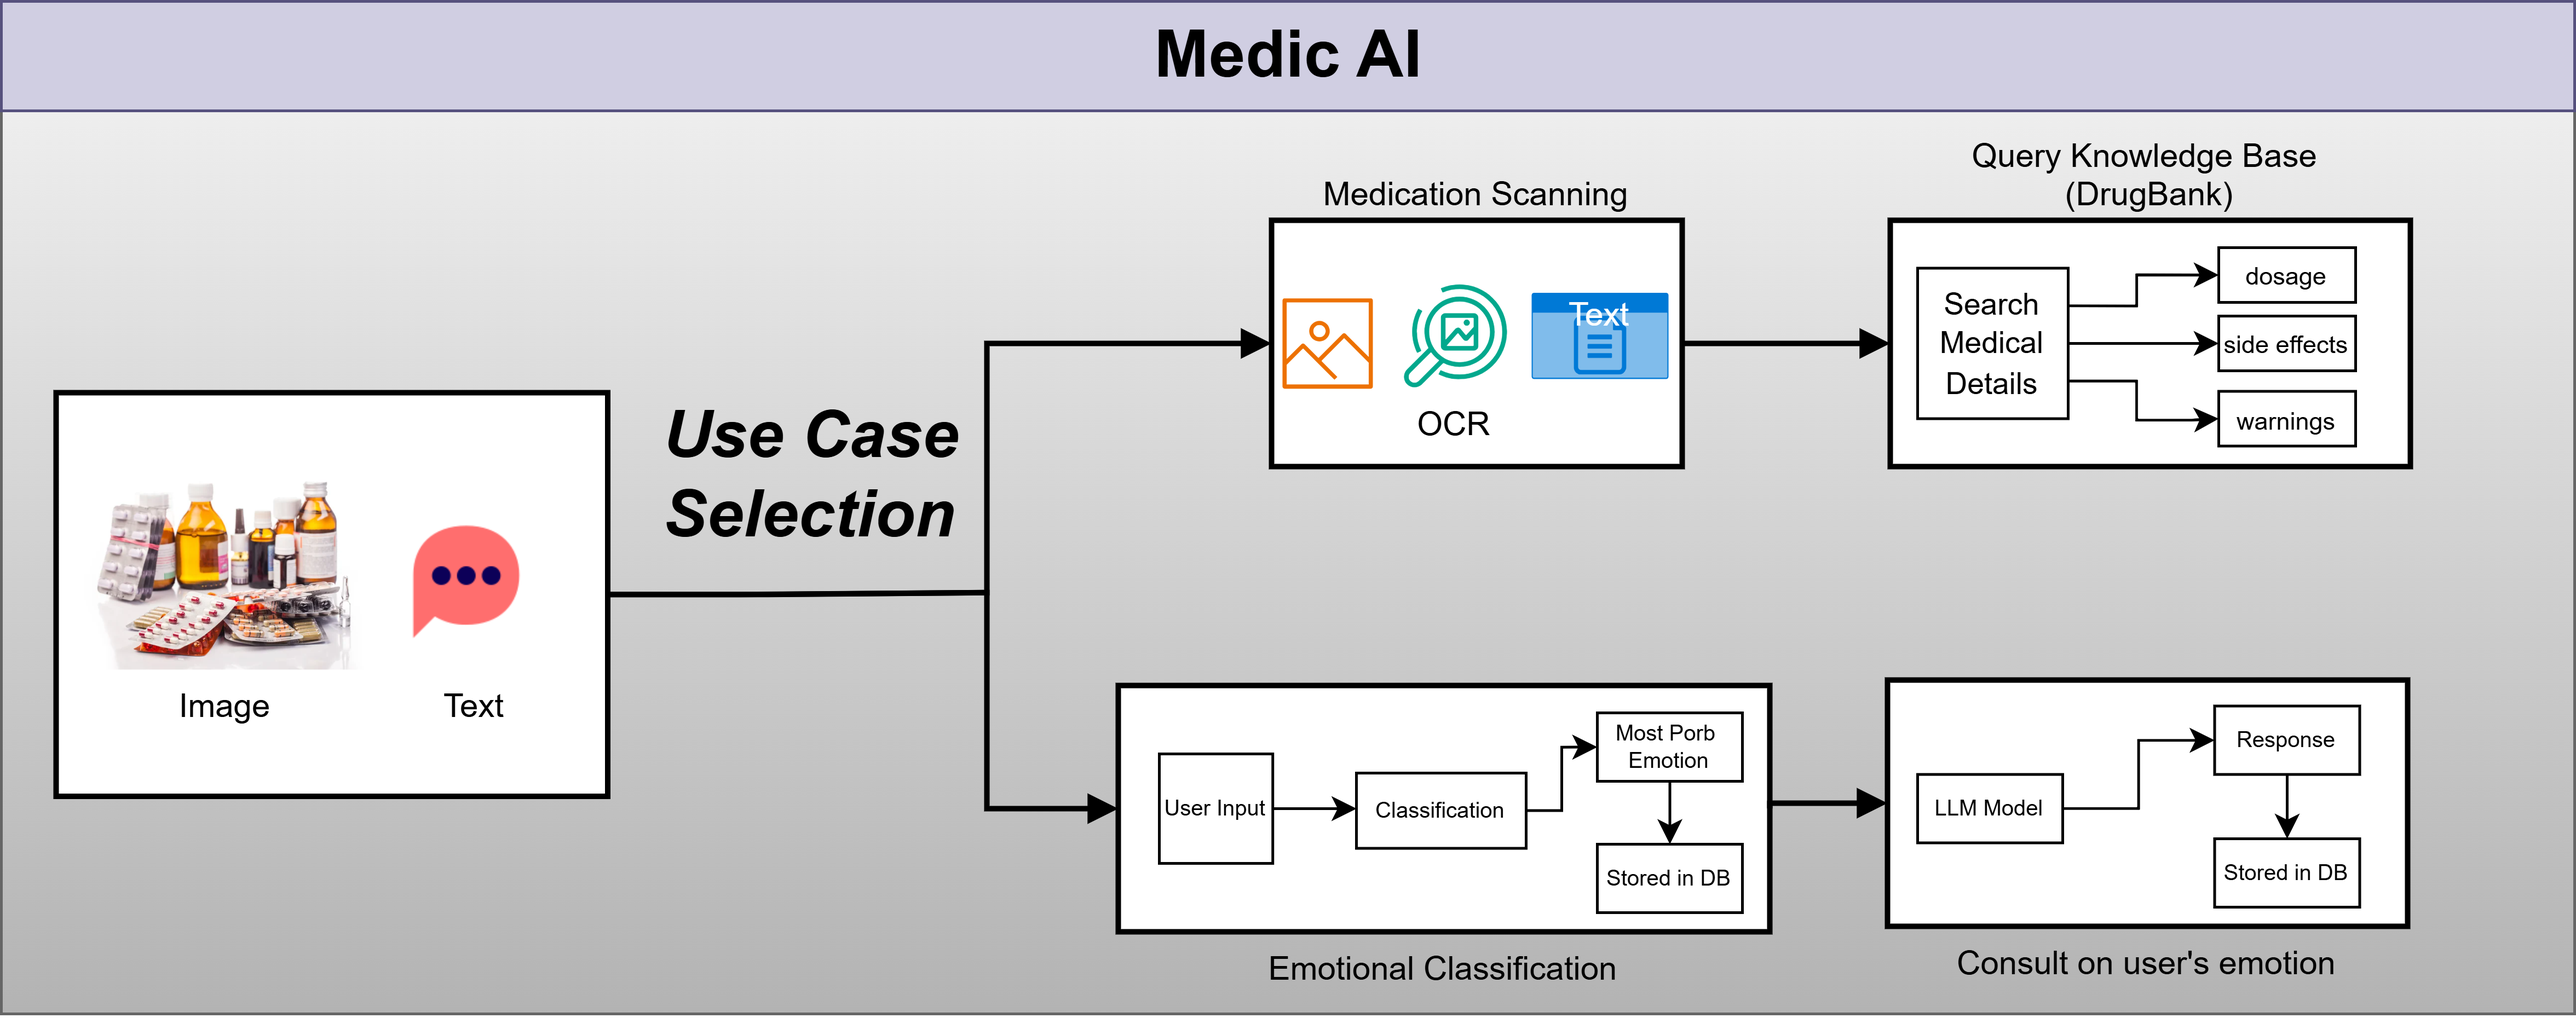
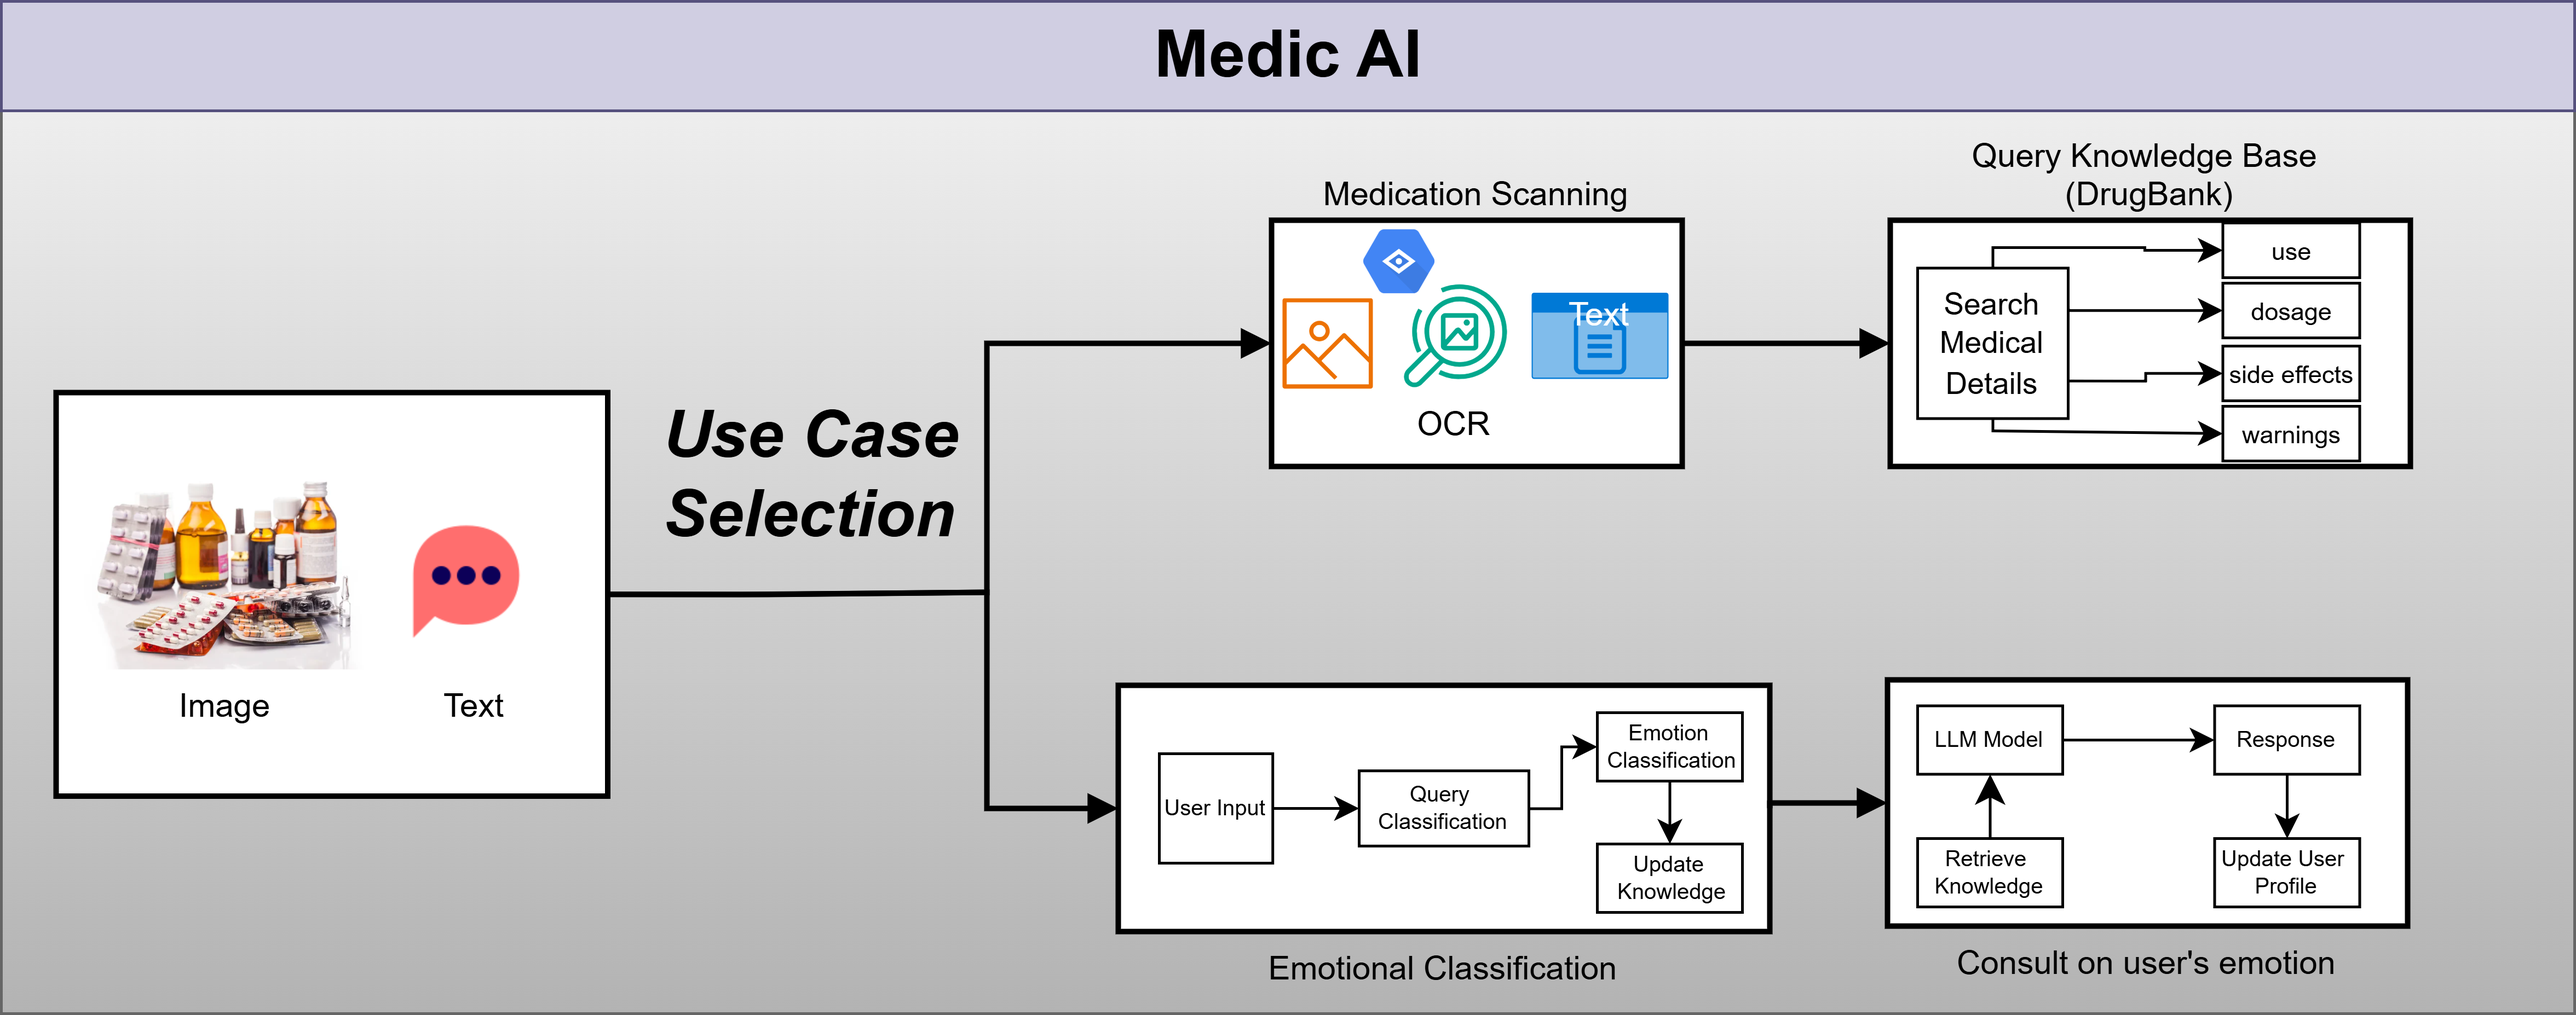
update readme

diff --git a/app/code/medicine_scanning.py b/app/code/medicine_scanning.py
@@ -130,7 +130,7 @@ def is_bad_candidate(candidate):
 trusted_drugs = [
     "calpol 500 mg", "amoxicillin", "simvastatin", "omeprazole", "losartan",
     "amlodipine", "metformin", "salbutamol", "cetirizine", "ibuprofen",
-    "abr x", "air-x", "abr-x"
+    "air-x"
 ]
 
 fruit_keywords = ["lemon", "orange", "banana", "grape", "cherry", "apple", "mango", "berry", "peach"]

diff --git a/README.md b/README.md
@@ -1,20 +1,18 @@
-# Medic AI: AI for your medical needs
+# Medic AI: AI for Your Medical Needs
 
 ## Project Overview
 
-Medic AI is a mobile application that leverages artificial intelligence to make healthcare more accessible. It includes two core features:
+Medic AI is a mobile application leveraging artificial intelligence to enhance healthcare accessibility. It features two core components:
 
-1. **AI Medicine Scanning**: Takes photos of medicine packaging to extract key details like drug name and dosage, providing clear summaries to help users use medications correctly.
-
-2. **AI Therapist Chatbot**: Engages with users to support their mental health, offering coping tips and suggesting professional help when needed.
+1. **AI Medicine Scanning**: Captures photos of medicine packaging to extract critical details such as drug name and dosage, delivering clear summaries to ensure correct medication use.
+2. **AI Therapist Chatbot**: Engages users in supportive conversations to promote mental health, offering coping strategies and recommending professional help when necessary.
 
 ## Problem Statement
 
-Healthcare currently struggles to meet everyone's needs. Two significant problems addressed by Medic AI:
+Medic AI addresses two significant healthcare challenges:
 
-- **Limited Access to Medication Information**: Patients often struggle to interpret complex medication labels or lack immediate access to doctors for clarifications, increasing risks of incorrect usage and preventable harm.
-
-- **Mental Health Support Barriers**: Many people need help with mental health but face obstacles like cost, limited options, or social stigma against seeking help.
+- **Limited Access to Medication Information**: Patients often struggle to decipher complex medication labels or lack immediate access to medical professionals, increasing the risk of incorrect usage and harm.
+- **Mental Health Support Barriers**: Cost, limited availability, and social stigma prevent many individuals from accessing mental health support.
 
 ## System Architecture
 
@@ -24,57 +22,58 @@ Healthcare currently struggles to meet everyone's needs. Two significant problem
 
 ### Use Case 1: AI Medicine Scanning
 
-Helps users understand dense, technical medication labels by taking a simple picture of the medicine.
+This feature assists users in understanding complex medication labels by photographing medicine packaging.
 
 **Workflow:**
-1. **Image Capture & Upload**: User takes a photo of medicine packaging, focusing on the label.
-2. **Text Extraction**: Uses OCR to convert image to text and clean up irrelevant information.
-3. **Entity Recognition & Database Query**: Extracts drug name, dosage, side effects, and other important information from our database.
-4. **Information Summarization and Output**: Generates concise, user-friendly information related to the drug.
+1. **Image Capture & Upload**: Users photograph the medicine label, which is sent to Medic AI's backend.
+2. **Text Extraction**: OCR technology converts the image to text, filtering out irrelevant content.
+3. **Entity Recognition & Database Query**: Extracts drug name, dosage, side effects, and other details from a database.
+4. **Information Summarization and Output**: Provides a concise, user-friendly summary of the drug information.
 
-**Expected Results**: Users understand their medications better, reducing medication errors and helping people be more informed about their prescriptions.
+![AI Medicine Scanning Workflow](./images/medicine_scanning_workflow.png)
 
-### Use Case 2: AI Therapist Chatbot
+**Results**: Users gain a better understanding of their medications, reducing errors and improving adherence to prescriptions.
 
-Offers immediate, private mental health support through conversation, with memory of past interactions for personalized assistance.
+### Use Case 2: Chat with Therapist
+
+The chatbot provides immediate, private mental health support, retaining context from previous interactions for personalized care.
 
 **Workflow:**
-1. **User Interaction**: User opens the chatbot and begins conversation.
-2. **Conversational Support**: The chatbot analyzes the user's words and replies with supportive feedback and useful tips.
-3. **Personalized Assistance**: Assesses user's emotions and suggests mental exercises based on their input.
+1. **User Interaction**: Users initiate a conversation with the chatbot, which prompts them to share their feelings.
+2. **Conversational Support**: The chatbot analyzes user input and responds with empathetic feedback and practical advice.
+3. **Personalized Assistance**: Assesses emotions and suggests tailored mental health exercises.
 
-**Expected Results**: Faster access to mental health support, reducing feelings of isolation and connecting more people with mental health resources.
+![AI Therapist Chatbot Workflow](./images/therapist_chatbot_workflow.png)
+
+**Results**: Users access timely mental health support, reducing isolation and increasing engagement with mental health resources.
 
 ## Methodology
 
 ### Dataset
 
-**DrugBank Dataset**: Contains structured pharmaceutical information including drug identifiers, names, indications, dosages, contraindications, interactions, and side effects.
-
-**GoEmotions Dataset**: Used for multi-label emotion classification, comprising Reddit comments annotated with 28 emotion categories.
+- **DrugBank Dataset**: Provides structured pharmaceutical data, including drug names, indications, dosages, contraindications, interactions, and side effects.
+- **GoEmotions Dataset**: Contains Reddit comments annotated with 28 emotion categories for multi-label emotion classification.
 
 ### Models
 
 **Medication Scanning**:
-- **OCR**: Google Cloud Vision API for text extraction
-- **Entity Extraction**: SpaCy enhanced with fuzzy matching
-- **Knowledge Base Query**: FAISS for retrieval of structured drug information
-- **Semantic Retrieval**: all-MiniLM-L6-v2 model for generating dense embeddings
-- **Response Generation**: Mistral-7B-Instruct-v0.2 for summarizing retrieved details
+- **OCR**: Google Cloud Vision API for accurate text extraction.
+- **Entity Extraction**: SpaCy with fuzzy matching for robust drug name identification.
+- **Knowledge Base Query**: FAISS for retrieving structured drug information.
+- **Semantic Retrieval**: all-MiniLM-L6-v2 for generating dense embeddings.
+- **Response Generation**: Mistral-7B-Instruct-v0.2 for concise, factual summaries.
 
 **Mental Support Chatbot**:
-- **Emotion Classification**: BERT-base-uncased for detecting 28 emotion categories
-- **Conversational Response**: Mistral-7B-Instruct-v0.2 fine-tuned for empathetic replies
+- **Emotion Classification**: BERT-base-uncased for detecting 28 emotion categories.
+- **Conversational Response**: Mistral-7B-Instruct-v0.2, fine-tuned for empathetic and contextually relevant replies.
 
 ### Training
 
-**Medication Scanning**: Minimal training required as it uses pre-trained models, with fine-tuning applied as needed.
-
-**Mental Support Chatbot**: 
-- Trained with custom weights to handle class imbalance
-- Utilizes binary cross-entropy loss with logits
-- Batch size of 16, learning rate of 2e-5, weight decay of 0.03
-- Maximum of 5 epochs with early stopping
+- **Medication Scanning**: Utilizes pre-trained models with minimal fine-tuning, focusing on customized prompt generation for user-friendly outputs.
+- **Mental Support Chatbot**: 
+  - Trained with custom weights to address class imbalance.
+  - Uses binary cross-entropy loss with logits.
+  - Configured with a batch size of 16, learning rate of 2e-5, weight decay of 0.03, and a maximum of 5 epochs with early stopping.
 
 ### Evaluation Metrics
 
@@ -82,28 +81,56 @@ Offers immediate, private mental health support through conversation, with memor
 
 | **Metric** | **Description** | **Data Source** | **Ground Truth** | **Expected Result** | **Actual Result** |
 |------------|----------------|----------------|-----------------|-------------------|-----------------|
-| **OCR Accuracy** | Percentage of correctly extracted text (e.g., "Calpol 500 mg") | OCR output | "Calpol 500 mg" | > 95% | TBD |
-| **Entity Extraction F1** | Balance of precision and recall for drug name detection (e.g., "calpol") | Extracted entities | ["calpol"] | F1 = 1.0 | TBD |
-| **Retrieval Precision** | Relevance of retrieved drug facts (e.g., "paracetamol" for "calpol") | Retrieved DrugBank entry | Paracetamol facts | 1.0 | TBD |
-| **Task Completion Rate** | % of user queries yielding correct drug facts | Final chat output | "Calpol 500 mg" → Paracetamol facts | > 85% | TBD |
+| **OCR Accuracy** | Percentage of correctly extracted text (e.g., "Calpol 500 mg") | OCR output | "Calpol 500 mg" | > 95% | 22.4% (Google Vision), 19% (Tesseract) |
+| **Entity Extraction F1** | Balance of precision and recall for drug name detection (e.g., "calpol") | Extracted entities | ["calpol"] | F1 = 1.0 | 62.4% (Google Vision), 40.2% (Tesseract) |
+| **Retrieval Precision** | Relevance of retrieved drug facts (e.g., "paracetamol" for "calpol") | Retrieved DrugBank entry | Paracetamol facts | 1.0 | 40% (Google Vision), 20% (Tesseract) |
+| **Task Completion Rate** | % of user queries yielding correct drug facts | Final chat output | "Calpol 500 mg" → Paracetamol facts | > 85% | 100% (Google Vision), 80% (Tesseract) |
+
+![Medicine Scanning Evaluation](./images/medicine_evaluation.png)
+
 
 **Mental Support Chatbot**:
 
 ![Emotion Classification Training Metrics](./images/t2e_v4_eval_plots.png)
 
-- **Micro F1**: Assesses overall precision and recall across all labels
-- **Macro F1**: Averages F1 scores per label to highlight performance on less frequent emotions
-- **Accuracy**: Reflects the proportion of correctly predicted labels
-- **Validation Loss**: Key criterion for model selection
+- **Micro F1**: Measures overall precision and recall across all labels.
+- **Macro F1**: Averages F1 scores per label, emphasizing performance on less frequent emotions.
+- **Accuracy**: Proportion of correctly predicted labels.
+- **Validation Loss**: Guides model selection.
+- **Conversational Metrics**: BLEU and ROUGE for response coherence, supplemented by human evaluations for empathy and relevance.
+
+| Model                         | Release   | Tokenizer    | MMLU   | Medical Strengths              | Instruction | Speed       |
+|-------------------------------|-----------|--------------|--------|--------------------------------|-------------|-------------|
+| Mistral-7B-Instruct-v0.2      | Oct 2023  | BPE (32k)    | 60.1%  | Strong reasoning, emotional nuance | Excellent   | High        |
+| TinyLlama-1.1B-Chat-v1.0      | Jan 2024  | BPE (32k)    | 25.3%  | Limited medical knowledge      | Moderate    | Very fast   |
+| Qwen-7B-Chat                  | Sep 2023  | TickToken    | 58.2%  | Good multilingual support      | Good        | Comparable  |
+| DeepSeek-7B-Chat              | Jan 2024  | BPE (100k)   | 59.8%  | Strong code generation         | Very good   | Moderate    |
+| MPT-7B-Chat                   | May 2023  | NeoX (50k)   | 35.0%  | Limited emotional nuance       | Good        | Lower       |
+
+
+**Evaluation Results**:
+- **Medication Scanning**: Google Vision outperformed Tesseract across all metrics, with 22.4% OCR accuracy, 62.4% Entity Extraction F1, 40% Retrieval Precision, and 100% Task Completion Rate. Expert evaluations with Dr. Khin Lay Phyu improved accuracy from 1/5 to 3/5 and clarity from 1/5 to 4/5 after prompt revisions.
+- **Mental Support Chatbot**: Achieved 5/5 for contextual relevance and empathy in anger and fear scenarios, and 5/5 empathy with 3/5 relevance in sadness scenarios, indicating strong performance with minor relevance issues in deeper emotional contexts.
+
+## Limitations
+
+- **Model Hallucinations**: The Mistral-7B model occasionally generates inaccuracies with long inputs.
+- **Response Latency**: Chatbot response times range from seconds to nearly a minute, disrupting conversational flow.
+- **Language Support**: Currently limited to English, excluding non-English-speaking users.
+- **Feedback Mechanism**: Lacks structured user feedback to drive continuous improvement.
+
+## Future Work
+
+- **Enhanced Hardware**: Deploy larger-parameter models with expanded context windows to reduce hallucinations.
+- **Latency Optimization**: Optimize code and scale GPU resources to achieve consistently low response times.
+- **Multilingual Support**: Extend the interface to support additional languages and integrate voice-based input/output.
+- **User Feedback System**: Implement a structured feedback mechanism, prompting users for satisfaction ratings and comments after sessions to improve model outputs and user experience.
 
 ## Research Questions
 
-1. How effectively can Medic AI summarize and extract key medication information from medicine images using multimodal NLP, compared to standard medical databases?
-
-2. What NLP and image recognition techniques yield the highest accuracy and speed for extracting structured medical details from medicine labels compared with traditional OCR methods?
-
+1. How effectively can Medic AI summarize and extract key medication information from medicine images using multimodal NLP compared to standard medical databases?
+2. What NLP and image recognition techniques yield the highest accuracy and speed for extracting structured medical details from medicine labels compared to traditional OCR methods?
 3. How well can a fine-tuned conversational AI model, guided by multi-label emotion detection, maintain contextual relevance and empathy in a no-redirection mental health chatbot?
-
 4. How consistently does the AI Therapist Chatbot achieve high user satisfaction when responding to predefined anger and depression scripts in a single session?
 
 ## Team
@@ -117,11 +144,11 @@ Offers immediate, private mental health support through conversation, with memor
 
 ## Project Status
 
-- ✅ Revised project scope to align with project duration
-- ✅ Confirmed datasets and models for implementation
-- 🔄 Continuing implementation of identified datasets and models
-- 🔄 Revising project proposal based on feedback
-- 🔄 Beginning system development
+- ✅ Project scope revised and aligned with project duration
+- ✅ Datasets and models confirmed and implemented
+- ✅ System development completed
+- ✅ Project proposal finalized based on feedback
+- ✅ Full implementation, testing, and evaluation completed
 
 ## License
 
@@ -129,4 +156,4 @@ This project is licensed under the MIT License. See the LICENSE file for more de
 
 ## Acknowledgments
 
-This project is being developed for fulfillment of the project proposal for AT82.05, Artificial Intelligence: Natural Language Understanding, under Asst. Prof. Chaklam Silpasuwanchai at Asian Institute of Technology.
+Developed for the fulfillment of the project proposal for AT82.05, Artificial Intelligence: Natural Language Understanding, under Asst. Prof. Chaklam Silpasuwanchai at the Asian Institute of Technology.
